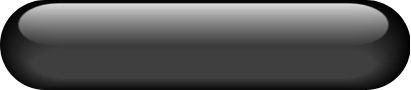
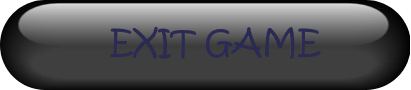
changes

diff --git a/core/src/com/tank_stars/game/Pause_Screen.java b/core/src/com/tank_stars/game/Pause_Screen.java
@@ -1,6 +1,5 @@
 package com.tank_stars.game;
 
-
 import com.badlogic.gdx.Gdx;
 import com.badlogic.gdx.Screen;
 import com.badlogic.gdx.graphics.OrthographicCamera;
@@ -9,43 +8,44 @@ import com.badlogic.gdx.graphics.g2d.Sprite;
 import com.badlogic.gdx.graphics.g2d.SpriteBatch;
 import com.badlogic.gdx.math.Vector3;
 
+import java.io.FileOutputStream;
 import java.io.IOException;
+import java.io.ObjectOutputStream;
 import java.io.Serializable;
 
-public class Main_Screen implements Screen ,Serializable {
-    final Tank_Stars_Game tank_stars_game;
-    private Choose_Player1 choose_player1;
+public class Pause_Screen implements Screen , Serializable {
 
+    final Tank_Stars_Game tank_stars_game;
+     private Game_Screen game_screen;
     private OrthographicCamera camera;
     private SpriteBatch batch;
-    private Sprite main_menu_screen;
-    private Sprite play_button;
+    private Sprite background;
     private Sprite resume_button;
+    private Sprite saved_button;
     private Sprite exit_button;
-    final Vector3 touchpos = new Vector3();
-
+    private Vector3 touchpos = new Vector3();
+    private ObjectOutputStream out = null;
     private float w;
     private float h;
-    public Main_Screen(final Tank_Stars_Game tank_stars_game){
+    public Pause_Screen(final Tank_Stars_Game tank_stars_game,Game_Screen game_screen){
         this.tank_stars_game = tank_stars_game;
-        this.w = (float)Gdx.graphics.getWidth();
+        this.game_screen = game_screen;
+        this.w = (float) Gdx.graphics.getWidth();
         this.h = (float)Gdx.graphics.getHeight();
         (this.camera = new OrthographicCamera(this.w,this.h)).setToOrtho(false);
         this.batch = new SpriteBatch();
-        this.main_menu_screen = new Sprite(new Texture("main_menu_screen.png"));
-        this.play_button = new Sprite(new Texture("new_game_button.png"));
+        this.background = new Sprite(new Texture("back.jpeg"));
+        this.background.setSize(this.w,this.h);
         this.resume_button = new Sprite(new Texture("resume_game.png"));
+        this.saved_button = new Sprite(new Texture("saved_button.png"));
         this.exit_button = new Sprite(new Texture("exit_game.png"));
-        this.main_menu_screen.setSize(this.w,this.h);
-        this.play_button.setSize(this.w/6,this.h/12);
-        this.play_button.setPosition(this.w/10,this.h/30);
         this.resume_button.setSize(this.w/6,this.h/12);
-        this.resume_button.setPosition((this.w/10)+this.w/3,this.h/30);
+        this.resume_button.setPosition(this.w/10,this.h/30);
+        this.saved_button.setSize(this.w/6,this.h/12);
+        this.saved_button.setPosition((this.w/10)+this.w/3,this.h/30);
         this.exit_button.setSize(this.w/6,this.h/12);
         this.exit_button.setPosition((this.w/10)+2*this.w/3,this.h/30);
     }
-
-
 
     @Override
     public void show() {
@@ -56,37 +56,44 @@ public class Main_Screen implements Screen ,Serializable {
     public void render(float delta) {
         Gdx.gl.glClearColor(1.0f,1.0f,1.0f,1.0f);
         Gdx.gl.glClear(16384);
-        this.batch.setProjectionMatrix(this.camera.combined);
-        this.batch.begin();
-        this.main_menu_screen.draw(this.batch);
-        this.play_button.draw(this.batch);
+        batch.setProjectionMatrix(this.camera.combined);
+        batch.begin();
+        this.background.draw(this.batch);
         this.resume_button.draw(this.batch);
+        this.saved_button.draw(this.batch);
         this.exit_button.draw(this.batch);
-        this.batch.end();
-        try {
-            inputhandle();
-        } catch (IOException e) {
-            throw new RuntimeException(e);
-        }
+        batch.end();
+        inputhandle();
     }
-
-    public void inputhandle() throws IOException {
+    public void inputhandle() {
         if (Gdx.input.justTouched()){
             this.touchpos.set(Gdx.input.getX(),Gdx.input.getY(),0);
             this.camera.unproject(touchpos);
             if (touchpos.x >= this.w/10 && touchpos.x <= this.h/30+this.w/6 && touchpos.y >= this.h/30 && touchpos.y<=this.h/30+ this.h/12){
-                this.choose_player1 = new Choose_Player1(tank_stars_game);
-                tank_stars_game.setScreen(this.choose_player1);
+                tank_stars_game.setScreen(this.game_screen);
             }
             else if (touchpos.x >= (this.w/10)+this.w/3 && touchpos.x <= (this.w/10)+this.w/3+this.w/6&& touchpos.y >= this.h/30 && touchpos.y<=this.h/30+ this.h/12) {
-                tank_stars_game.setScreen(new Resume_Screen(tank_stars_game));
-
+                try {
+                    serialize();
+                } catch (IOException e) {
+                    throw new RuntimeException(e);
+                }
             }
             else if (touchpos.x >= (this.w/10)+2*this.w/3 && touchpos.x <= (this.w/10)+2*this.w/3+this.w/6&& touchpos.y >= this.h/30 && touchpos.y<=this.h/30+ this.h/12) {
-                System.out.println("exit game");
                 Gdx.app.exit();
             }
         }
+    }
+    public void serialize() throws IOException{
+//       try{
+//           out = new ObjectOutputStream(new FileOutputStream("Gamessaved1.txt"));
+//           out.writeObject(this);
+//
+//       }
+//        finally {
+//           out.close();
+//       }
+        tank_stars_game.setScreen(new Main_Screen(tank_stars_game));
     }
     @Override
     public void resize(int width, int height) {

diff --git a/core/src/com/tank_stars/game/Resume_Screen.java b/core/src/com/tank_stars/game/Resume_Screen.java
@@ -12,15 +12,14 @@ import com.badlogic.gdx.graphics.g2d.freetype.FreeTypeFontGenerator;
 import com.badlogic.gdx.math.Vector3;
 import com.badlogic.gdx.utils.Array;
 
-import java.io.FileReader;
-import java.io.IOException;
+import java.io.*;
 import java.util.ArrayList;
 import java.util.List;
 import java.util.Vector;
 
 import static java.lang.System.in;
 
-public class Resume_Screen implements Screen {
+public class Resume_Screen implements Screen, Serializable {
     final Tank_Stars_Game tank_stars_game;
     private OrthographicCamera camera;
     private SpriteBatch batch;
@@ -32,6 +31,7 @@ public class Resume_Screen implements Screen {
     int i =0;
     FileReader in = null;
     FileReader total =null;
+    ObjectInputStream out = null;
     private FreeTypeFontGenerator fontGenerator;
     private List<BitmapFont> font;
     private BitmapFont font1;
@@ -83,23 +83,52 @@ public class Resume_Screen implements Screen {
 
     @Override
     public void render(float delta) {
-        float change_x = this.w;
-        float change_y = this.h;
         Gdx.gl.glClearColor(1.0f,1.0f,1.0f,1.0f);
         Gdx.gl.glClear(16384);
         this.batch.setProjectionMatrix(this.camera.combined);
         this.batch.begin();
         this.bg.draw(batch);
-        for ( i =0 ;i < total_file;i++){
-            font.get(i).draw(batch,"sa",change_x/2,change_y-change_y/20);
-            change_y = change_y - (change_y/10+change_y/30);
-            this.postion_saved_game.set(change_x,change_y,0);
-            this.postion_saved.add(i,postion_saved_game);
+        try {
+            deserialize();
+        } catch (IOException e) {
+            throw new RuntimeException(e);
+        } catch (ClassNotFoundException e) {
+            throw new RuntimeException(e);
         }
+        inputhandle();
         this.batch.end();
-
+        System.out.println("1");
     }
 
+public void deserialize() throws IOException,ClassNotFoundException{
+        float change_x = this.w;
+        float change_y = this.h;
+        try{
+            for ( i = 0 ;i < 1;i++){
+                this.out = new ObjectInputStream(new FileInputStream("Gamessaved"+(i+1)+".txt"));
+//                Game_Screen t1 = (Tank_Stars_Game) out.readObject();
+//                font.get(i).draw(batch,Integer.toString(t1.getTank_1().getHealth()),change_x/2,change_y-change_y/20);
+//                font.get(i).draw(batch,Integer.toString(t1.getTank_2().getHealth()),change_x/2,change_y-change_y/20);
+                change_y = change_y - (change_y/10+change_y/30);
+                this.postion_saved_game.set(change_x,change_y,0);
+                this.postion_saved.add(i,postion_saved_game);
+            }
+        }
+        finally {
+            if (out != null){
+                out.close();
+            }
+
+        }
+    }
+
+
+    public void inputhandle(){
+        if (Gdx.input.justTouched()){
+            tank_stars_game.setScreen(new Game_Screen(tank_stars_game));
+        }
+
+    }
     @Override
     public void resize(int width, int height) {
 

diff --git a/core/src/com/tank_stars/game/Game_Screen.java b/core/src/com/tank_stars/game/Game_Screen.java
@@ -18,9 +18,7 @@ public class Game_Screen implements Screen {
 
     private Sprite pause_button;
 
-    private Sprite resume_button;
-    private Sprite saved_button;
-    private Sprite exit_button;
+
     private Sprite terror;
 
     private float w;
@@ -59,9 +57,9 @@ public class Game_Screen implements Screen {
             this.touchpos.set(Gdx.input.getX(),Gdx.input.getY(),0);
             this.camera.unproject(touchpos);
             if (touchpos.x >= (this.w/2) && touchpos.x <= this.h-this.h/20+this.w/20 && touchpos.y >= this.h-this.h/20 && touchpos.y<=this.h-this.h/20+ this.h/20){
-                System.out.println("done");
+                System.out.println("1");
+                tank_stars_game.setScreen(new Pause_Screen(tank_stars_game,this));
             }
-
         }
     }
     public void throw_air_drop(){

diff --git a/core/src/com/tank_stars/game/Tank.java b/core/src/com/tank_stars/game/Tank.java
@@ -1,15 +1,20 @@
 package com.tank_stars.game;
 
-import com.badlogic.gdx.InputProcessor;
-
+import java.io.Serializable;
 import java.util.ArrayList;
 import java.util.List;
 
-public class Tank implements Fireweaponer {
+public class Tank implements Fireweaponer , Serializable {
     private float pos_x;
     private float pos_y;
     private int Fuel;
-    private int Health;
+    private String type;
+
+    public int getHealth() {
+        return Health;
+    }
+
+    private int Health = 100;
     private float Angle;
     private float shoot_power;
     private List<Weapons> weapons ;

diff --git a/core/src/com/tank_stars/game/Tank_Stars_Game.java b/core/src/com/tank_stars/game/Tank_Stars_Game.java
@@ -3,8 +3,11 @@ package com.tank_stars.game;
 import com.badlogic.gdx.Game;
 import com.badlogic.gdx.graphics.g2d.BitmapFont;
 import com.badlogic.gdx.graphics.g2d.SpriteBatch;
+import com.badlogic.gdx.physics.bullet.collision._btMprSimplex_t;
 
-public class Tank_Stars_Game extends Game {
+import java.io.Serializable;
+
+public class Tank_Stars_Game extends Game  {
 
 	public SpriteBatch batch;
 	public BitmapFont font;

diff --git a/core/src/com/tank_stars/game/Loading_Screen.java b/core/src/com/tank_stars/game/Loading_Screen.java
@@ -10,7 +10,9 @@ import com.badlogic.gdx.graphics.g2d.Sprite;
 import com.badlogic.gdx.graphics.g2d.SpriteBatch;
 import com.badlogic.gdx.graphics.g2d.freetype.FreeTypeFontGenerator;
 
-public class Loading_Screen implements Screen {
+import java.io.Serializable;
+
+public class Loading_Screen implements Screen  {
 
     final Tank_Stars_Game tank_stars_game;
     private OrthographicCamera camera;

diff --git a/core/src/com/tank_stars/game/Airdrop.java b/core/src/com/tank_stars/game/Airdrop.java
@@ -5,12 +5,14 @@ public class Airdrop {
     private float tank1_position_y;
     private float tank2_position_x;
     private float tank2_position_y;
+    private float drop_position_x;
+    private float drop_position_y;
     private Weapons weapons;
     private Tank tank;
     public Airdrop(){
 
     }
-    public  void drop(){
+    public  void calulate_postion(Airdrop airdrop){
 
     }
 
